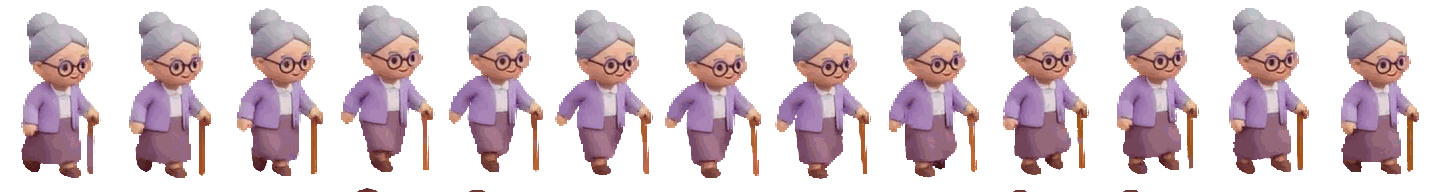
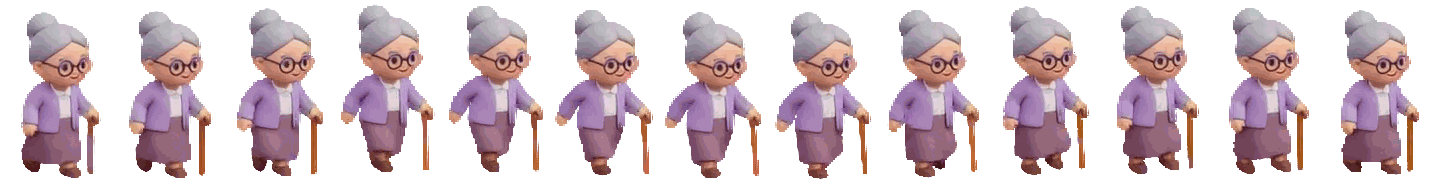
Бабуся більше не літає; публікація сайту знову проходить
- анімація ходьби бабусі (спереду) захопила краєчок сусідньої фігури внизу клітинки: гра вважала, що ноги нижче, і малювала її меншою та в повітрі; перерізано з фільтром сторонніх шматків
- стрес-тест на сервері GitHub ішов довше 5 с і зупиняв публікацію трьох останніх версій: дано йому 2 хвилини

diff --git a/tests/fuzz.test.ts b/tests/fuzz.test.ts
@@ -155,5 +155,5 @@ describe('random play', () => {
     // the random player really played: hundreds of days and many cups
     expect(days).toBeGreaterThan(1200);
     expect(sold).toBeGreaterThan(1000);
-  });
+  }, 120000);
 });
